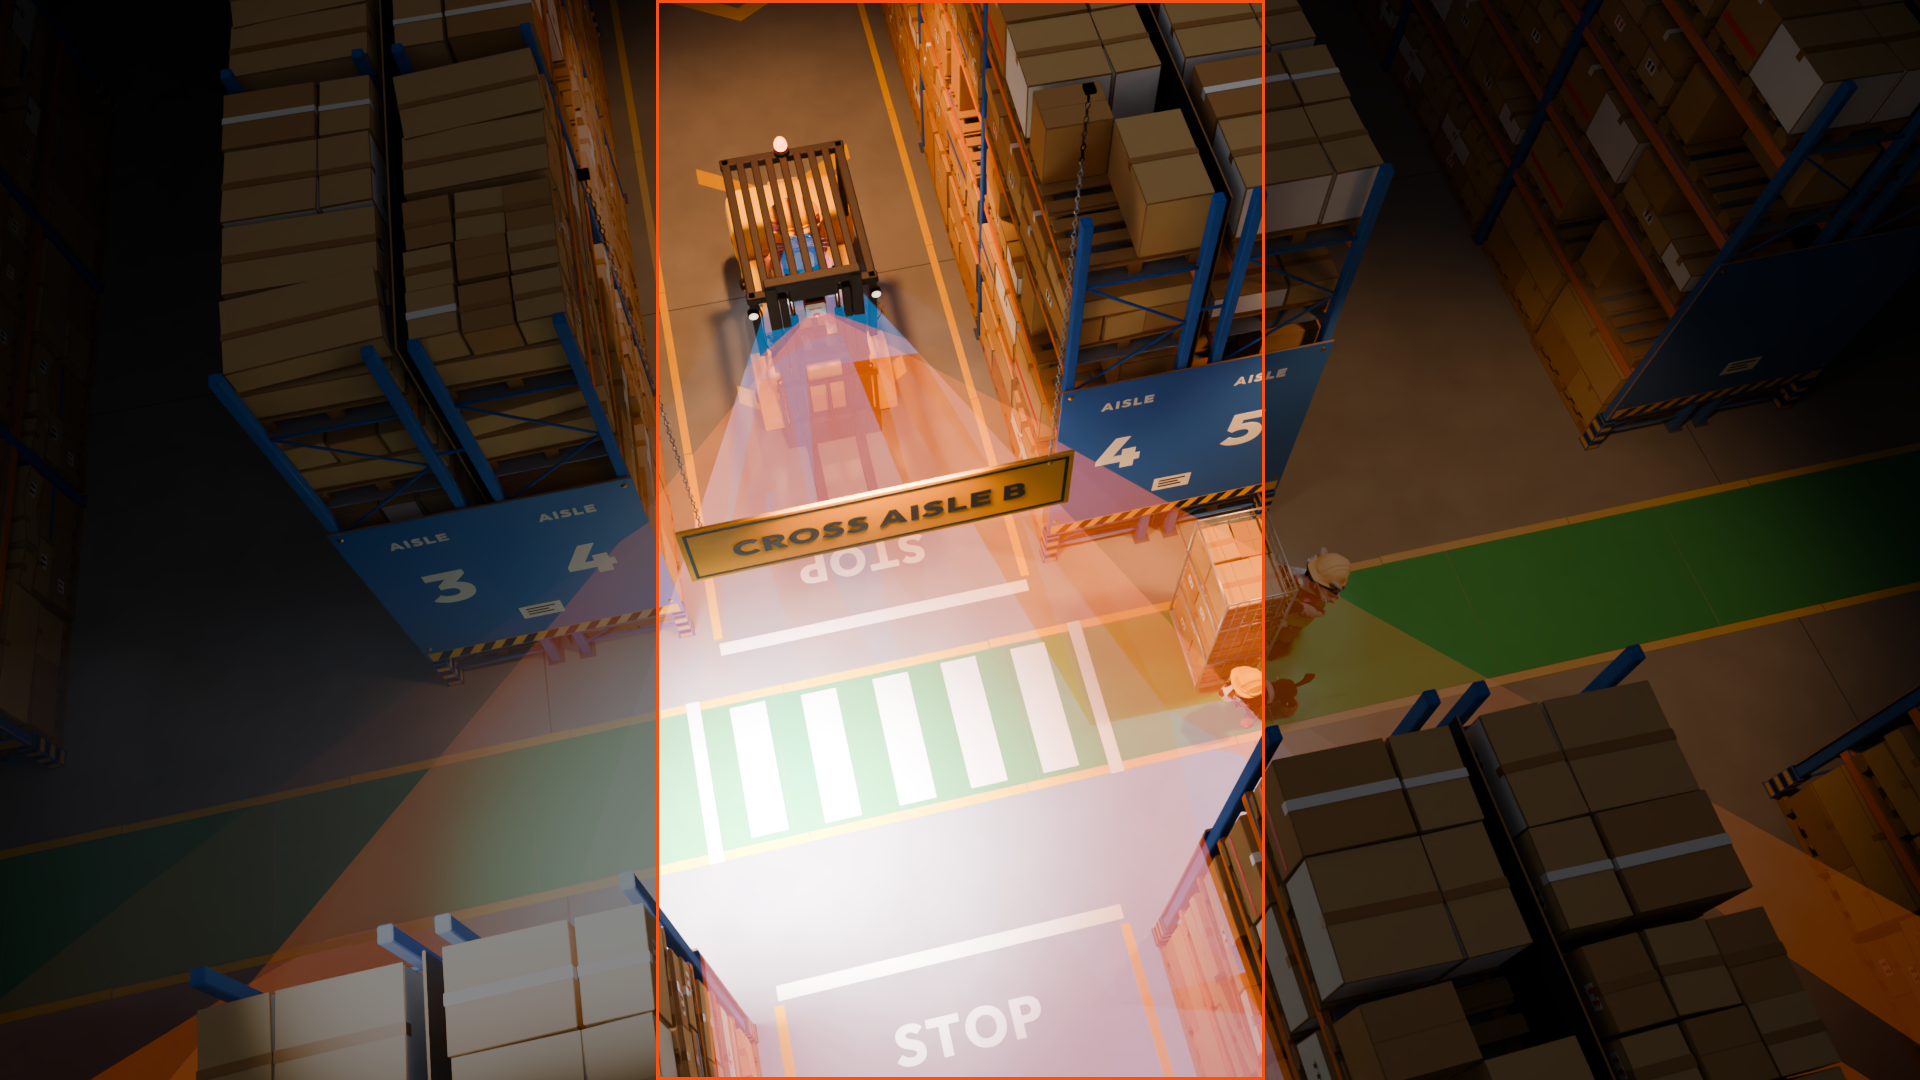
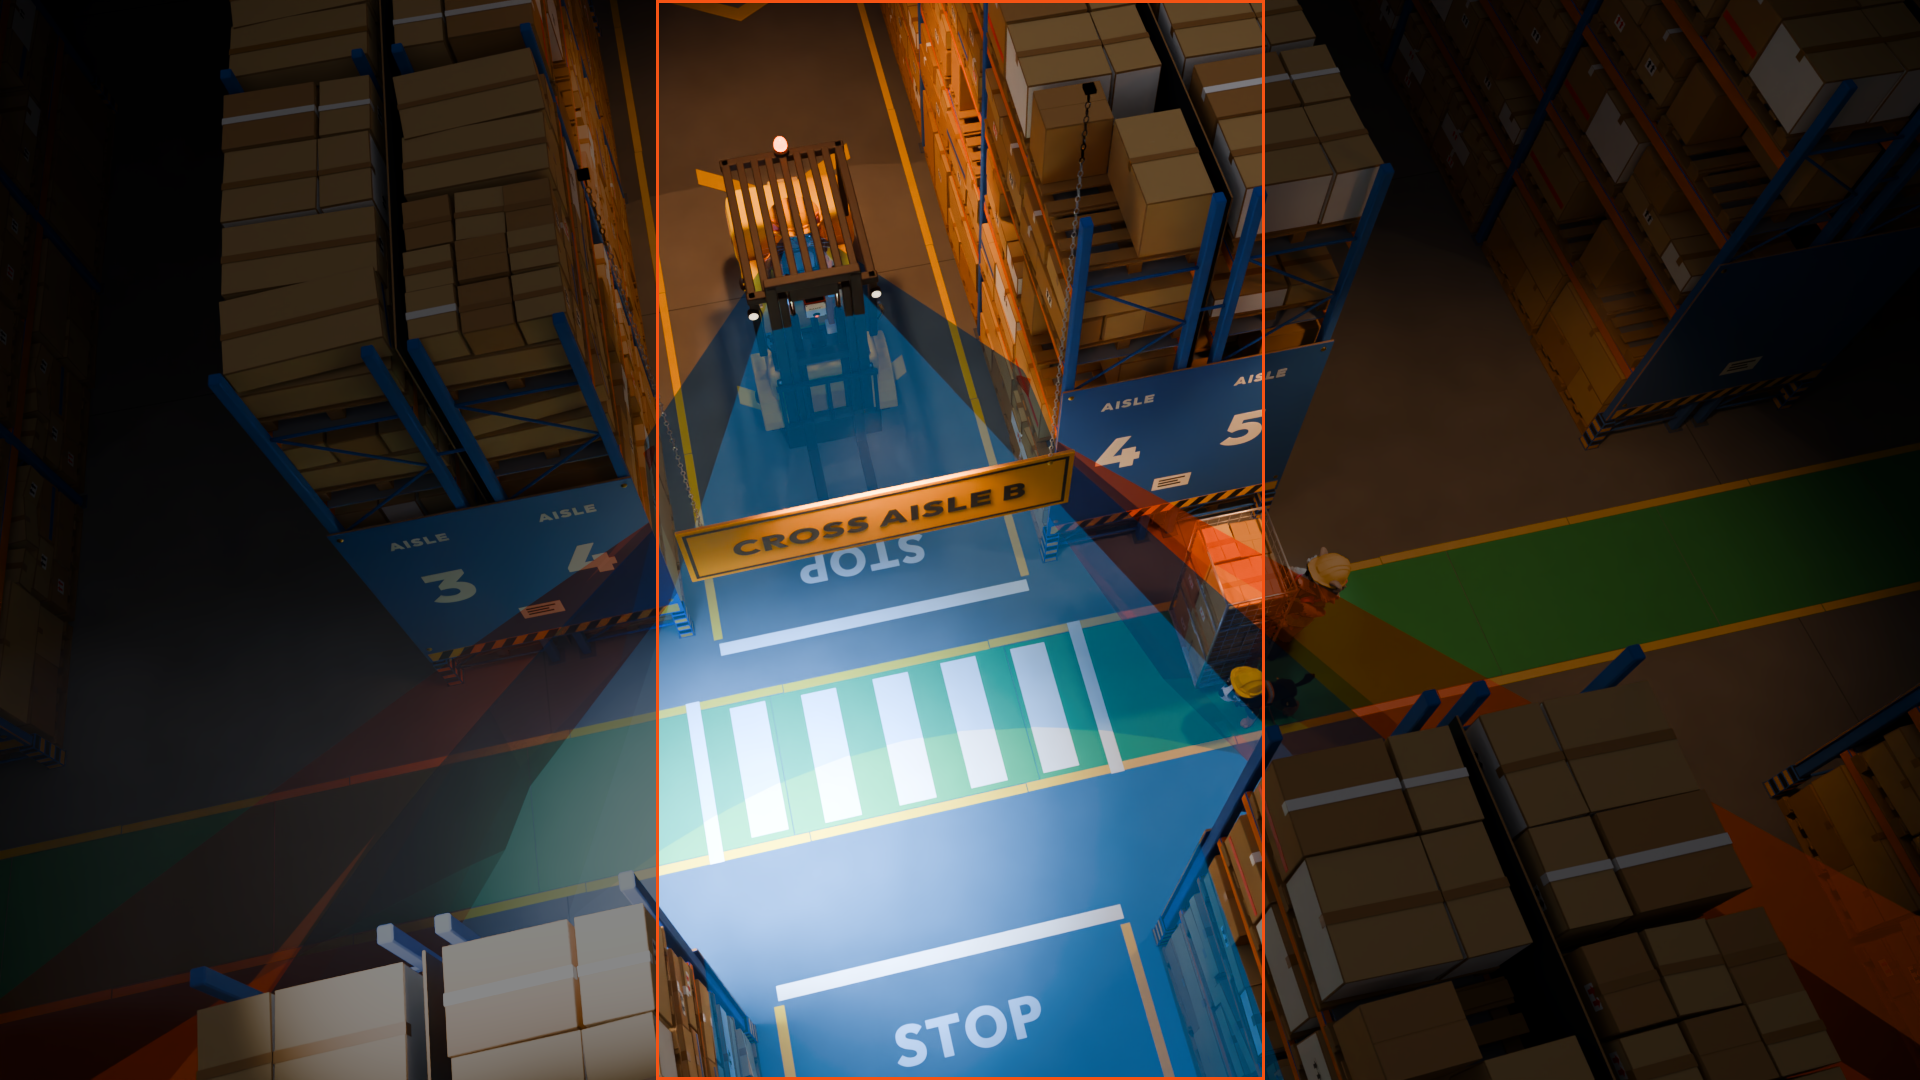
Stage 2 delivered for review: drone and driver stills, 9:16 safe versions, README
Claude-Session: https://claude.ai/code/session_01BntmWCku4jb1pF4QRZCMzN

diff --git a/README.md b/README.md
@@ -2,14 +2,26 @@
 
 A RAMS Digital warehouse-safety short, built as a fully scripted Blender 4.5 LTS project in a handmade felt-and-cardboard stop-motion look. Every model, rig and render comes from Python in `scripts/`, so the whole episode can be rebuilt from a fresh checkout.
 
-## Status: Stage 1 approved, Stage 2 in progress
+## Status: Stage 1 approved, Stage 2 delivered for review
 
 | Stage | What | Status |
 | --- | --- | --- |
 | 1 | Character, forklift and camera models + turntables | **approved** |
-| 2 | Set, lighting look-dev, hero still of the sightline-cone shot | **in progress** |
+| 2 | Set, lighting look-dev, hero still of the sightline-cone shot | **for review** |
 | 3 | Blocking playblast of the full episode | |
 | 4 | Final animation, render, audio, deliverables | |
+
+### Stage 2 deliverables (`renders/stage2/`)
+
+| Still | What |
+| --- | --- |
+| `hero.png` (+ `hero_safe.png`) | shot 4 sightline reveal, 1920x1080: the blue cone (what Mittens sees) stops at the rack ends; the orange wedge (what only the RAMS camera sees) reaches the roll cage, Pickles and Bolt's hard hat |
+| `lookdev.png` (+ `_safe`) | shot 2 look-dev: low tracking angle beside FL-02, night-shift lighting |
+| `drone.png` (+ `_safe`) | shot 3: top-down convergence |
+| `driver.png` | Mittens' point of view at the alert moment: the pair is hidden by the rack end |
+| `set_preview_*.png` | set work-in-progress views |
+
+The `_safe` versions mark the 9:16 centre-safe area for the Reels cut. The set layout and the sightline geometry are defined in `scripts/builders/layout_ep05.py`. The layout is verified so that at the alert, no part of the cage or Bolt is visible from Mittens' eye, while the camera sees them. Render with `scripts/stage2_stills.py`.
 
 ### Stage 1 deliverables (`renders/stage1/`)
 
